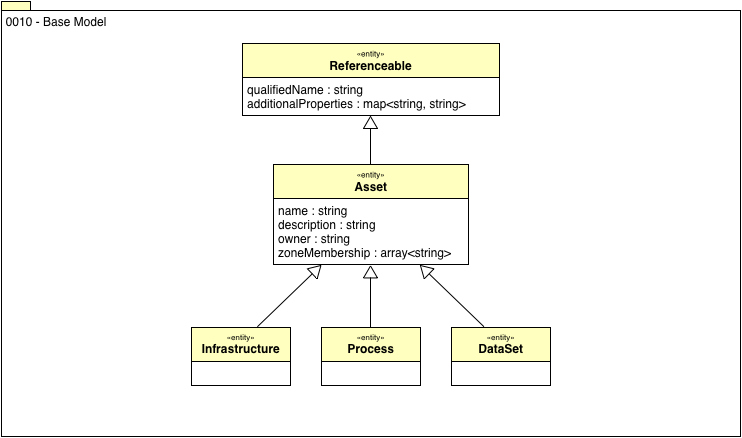
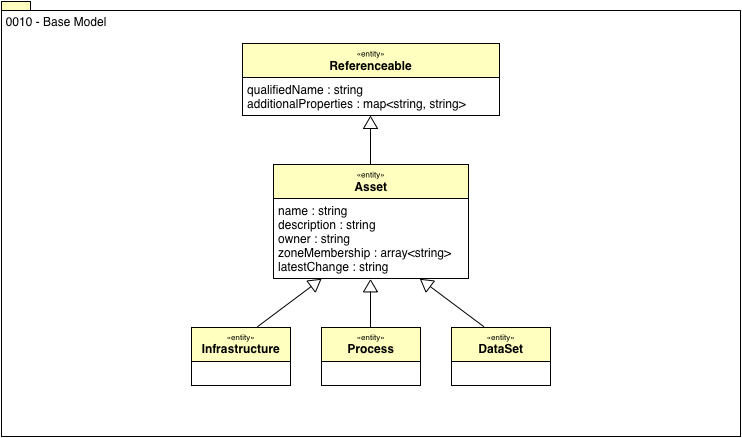
Add latestChange attribute to the Asset entity.

diff --git a/open-metadata-implementation/repository-services/repository-services-implementation/src/main/java/org/odpi/openmetadata/repositoryservices/archivemanager/opentypes/OpenMetadataTypesArchive.java b/open-metadata-implementation/repository-services/repository-services-implementation/src/main/java/org/odpi/openmetadata/repositoryservices/archivemanager/opentypes/OpenMetadataTypesArchive.java
@@ -384,7 +384,9 @@ public class OpenMetadataTypesArchive
         final String attribute4Name            = "zoneMembership";
         final String attribute4Description     = "The list of zones that this asset belongs to.";
         final String attribute4DescriptionGUID = null;
-
+        final String attribute5Name            = "latestChange";
+        final String attribute5Description     = "Description of the last change to the asset's metadata.";
+        final String attribute5DescriptionGUID = null;
 
         property = archiveHelper.getStringTypeDefAttribute(attribute1Name,
                                                            attribute1Description,
@@ -401,6 +403,10 @@ public class OpenMetadataTypesArchive
         property = archiveHelper.getArrayStringTypeDefAttribute(attribute4Name,
                                                                 attribute4Description,
                                                                 attribute4DescriptionGUID);
+        properties.add(property);
+        property = archiveHelper.getStringTypeDefAttribute(attribute5Name,
+                                                           attribute5Description,
+                                                           attribute5DescriptionGUID);
         properties.add(property);
 
         entityDef.setPropertiesDefinition(properties);
